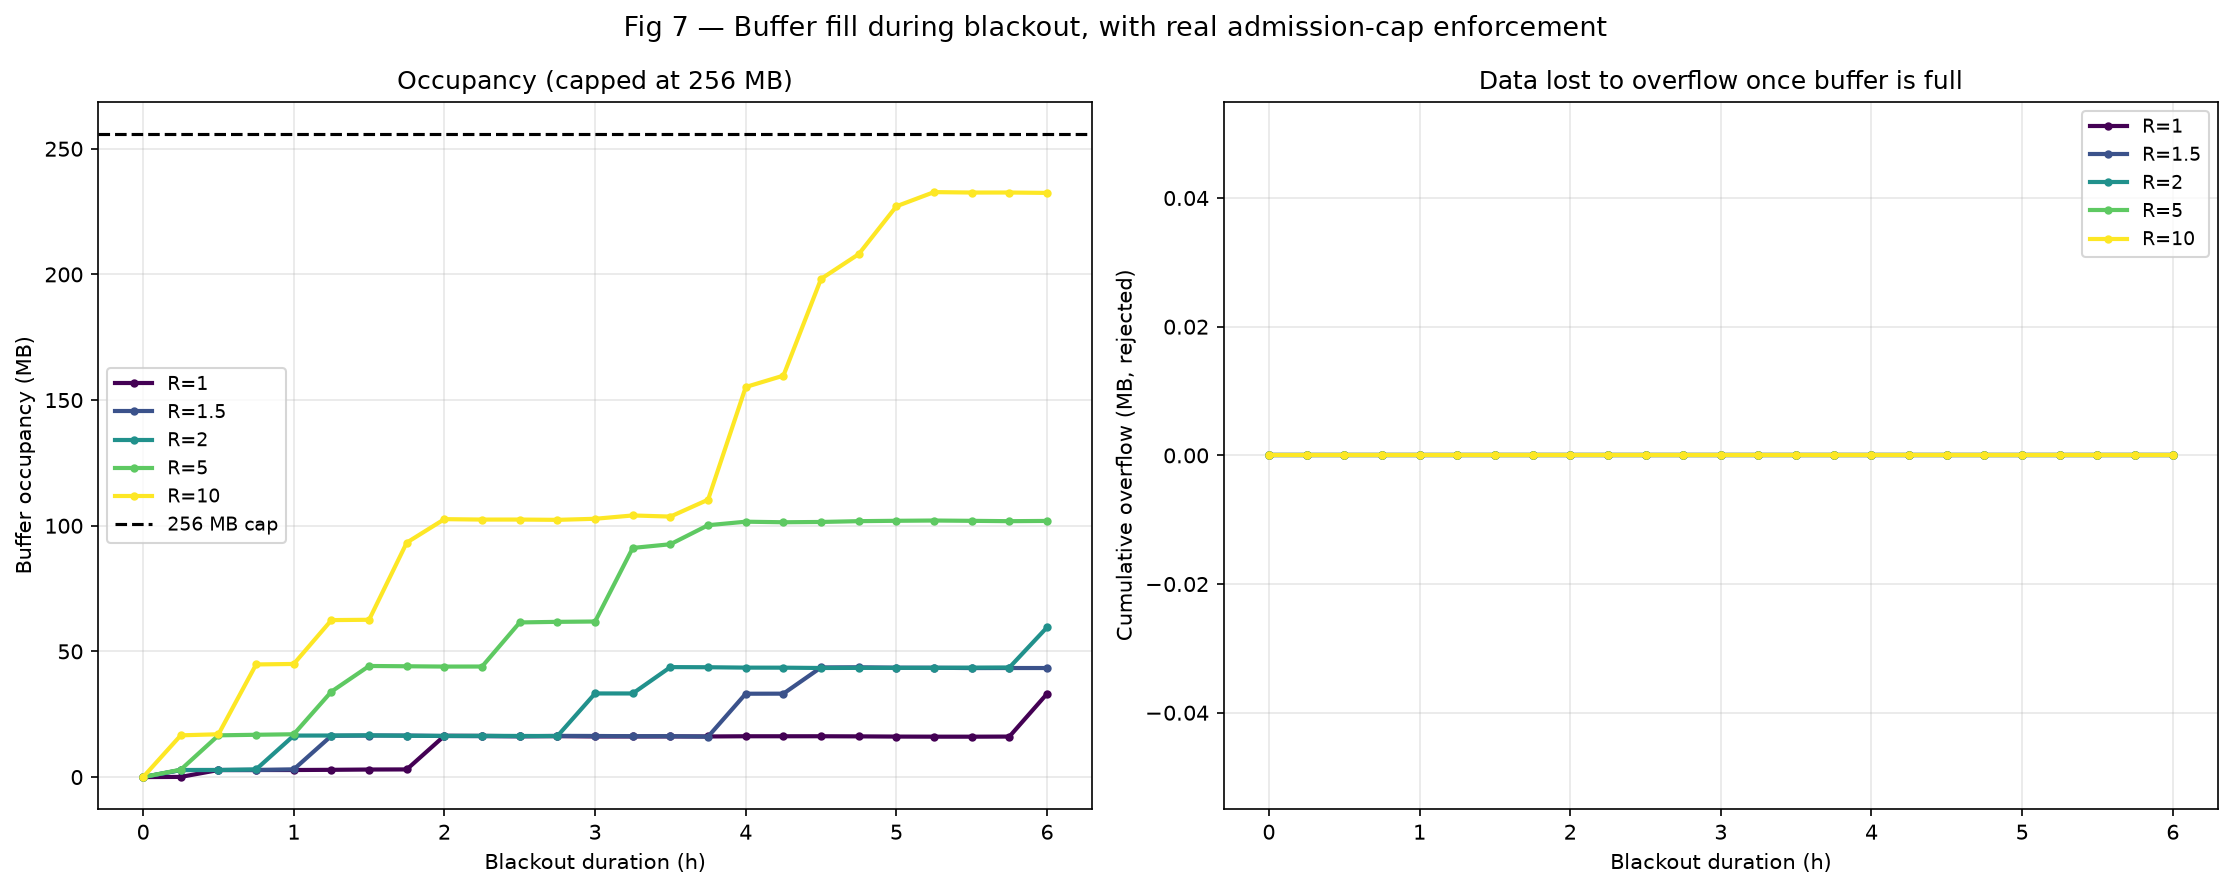
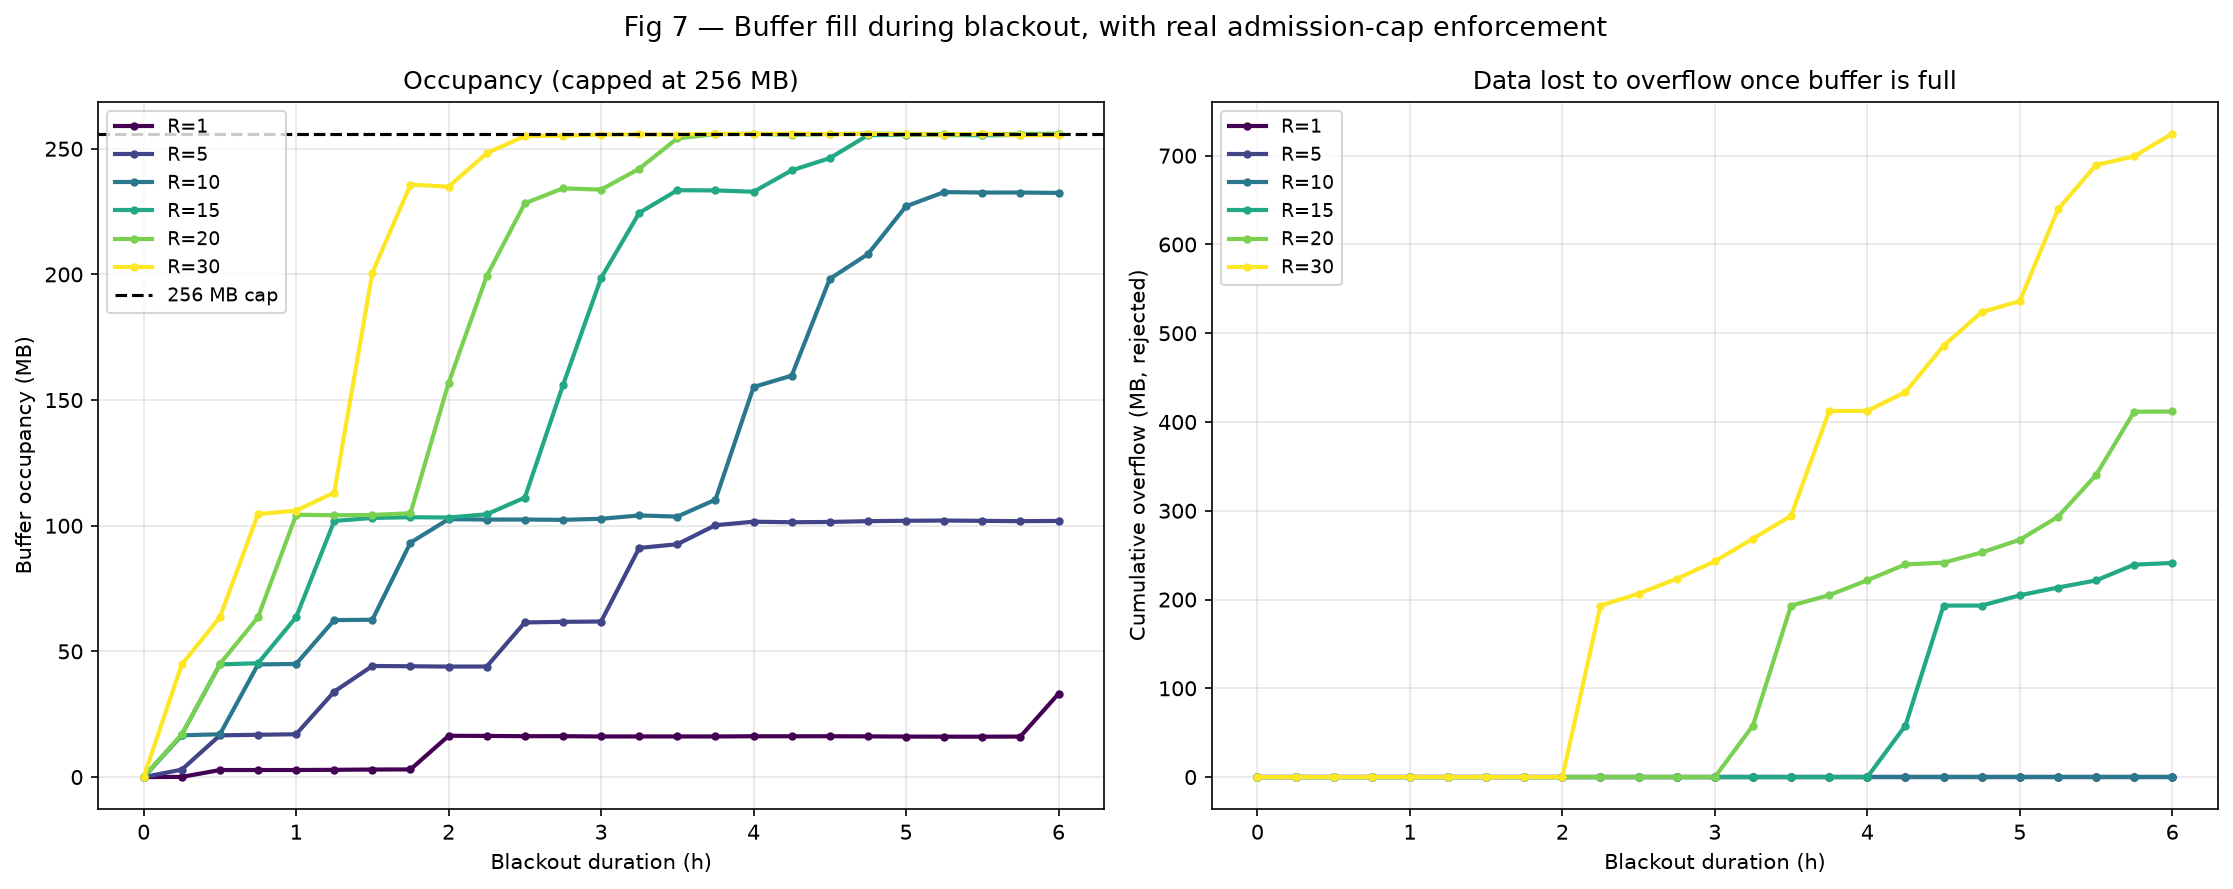
Fig 7: extend R to 30, actually cross the 256MB overflow threshold

diff --git a/run_fig7.py b/run_fig7.py
@@ -3,7 +3,7 @@ import numpy as np
 from gateway.workload_generator import CLASS_PARAMS, _generate_class_arrivals
 from gateway.traffic import CLASS_SPECS, TrafficClass
 
-R_VALUES = [1, 1.5, 2, 5, 10]
+R_VALUES = [1, 5, 10, 15, 20, 30]
 DURATIONS_H = np.arange(0, 6.25, 0.25)
 BUFFER_LIMIT_BYTES = 256_000_000  # 256 MB, CM4-class
 MAX_DURATION_S = 6.0 * 3600.0